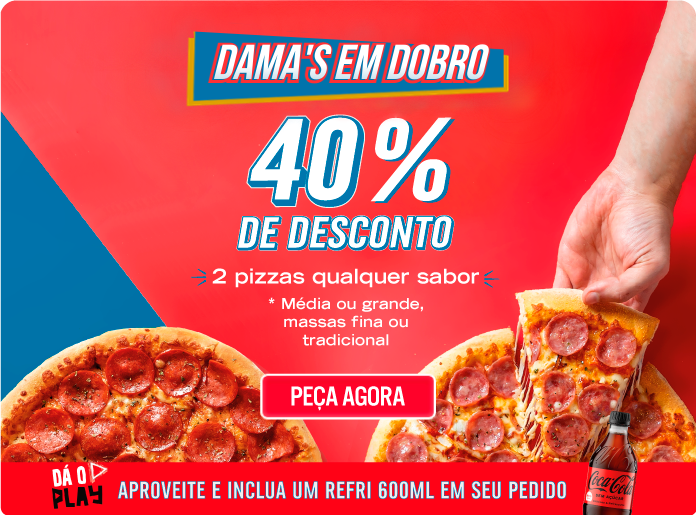
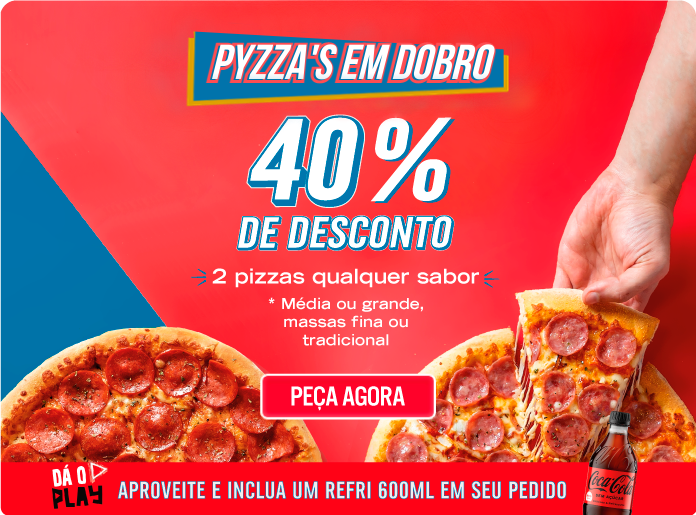
pyzza's

Changed region(s): [[0.3017, 0.0621, 0.7241, 0.1864]]

diff --git a/src/index.template.html b/src/index.template.html
@@ -2,7 +2,7 @@
 <html>
   <head>
     <!-- <title><%= productName %></title> -->
-    <title>Dama's Pizza - A Maior Pyzzaria da Necto</title>
+    <title>Pyzza's - A Maior Pyzzaria da Necto</title>
 
     <meta charset="utf-8">
     <meta name="description" content="<%= productDescription %>">
@@ -10,7 +10,7 @@
     <meta name="msapplication-tap-highlight" content="no">
     <meta name="viewport" content="user-scalable=no, initial-scale=1, maximum-scale=1, minimum-scale=1, width=device-width<% if (ctx.mode.cordova || ctx.mode.capacitor) { %>, viewport-fit=cover<% } %>">
 
-    <link rel="icon" type="image/png" href="icons/damas_simbolo.png">
+    <link rel="icon" type="image/png" href="icons/logo_py.png">
   </head>
   <body>
     <!-- DO NOT touch the following DIV -->

diff --git a/src/pages/Index.vue b/src/pages/Index.vue
@@ -3,7 +3,7 @@
     <div class="row justify-center">
       <div class="col-6">
         <!-- Começar pedido -->
-        <div class="row items-center justify-between">
+        <div class="row items-center justify-between" style="margin-top: -18px">
           <div class="text-h1 text-blue-grey-1">—</div>
           <div class="text-h5 text-bold text-primary text-uppercase">Começar pedido</div>
           <q-btn flat class="bg-negative text-white text-bold q-px-xl q-py-sm" @click="toCardapio()">Entrega</q-btn>

diff --git a/src/layouts/InicioLayout.vue b/src/layouts/InicioLayout.vue
@@ -95,7 +95,7 @@ export default defineComponent({
 
   setup () {
     return {
-      logo: require('src/assets/damas_simbolo.png'),
+      logo: require('src/assets/logo_py.png'),
       coca: require('src/assets/coca.png')
     }
   },

diff --git a/src/layouts/MainLayout.vue b/src/layouts/MainLayout.vue
@@ -96,7 +96,7 @@ export default defineComponent({
 
   setup () {
     return {
-      logo: require('src/assets/damas_simbolo.png'),
+      logo: require('src/assets/logo_py.png'),
       coca: require('src/assets/coca.png')
     }
   },
